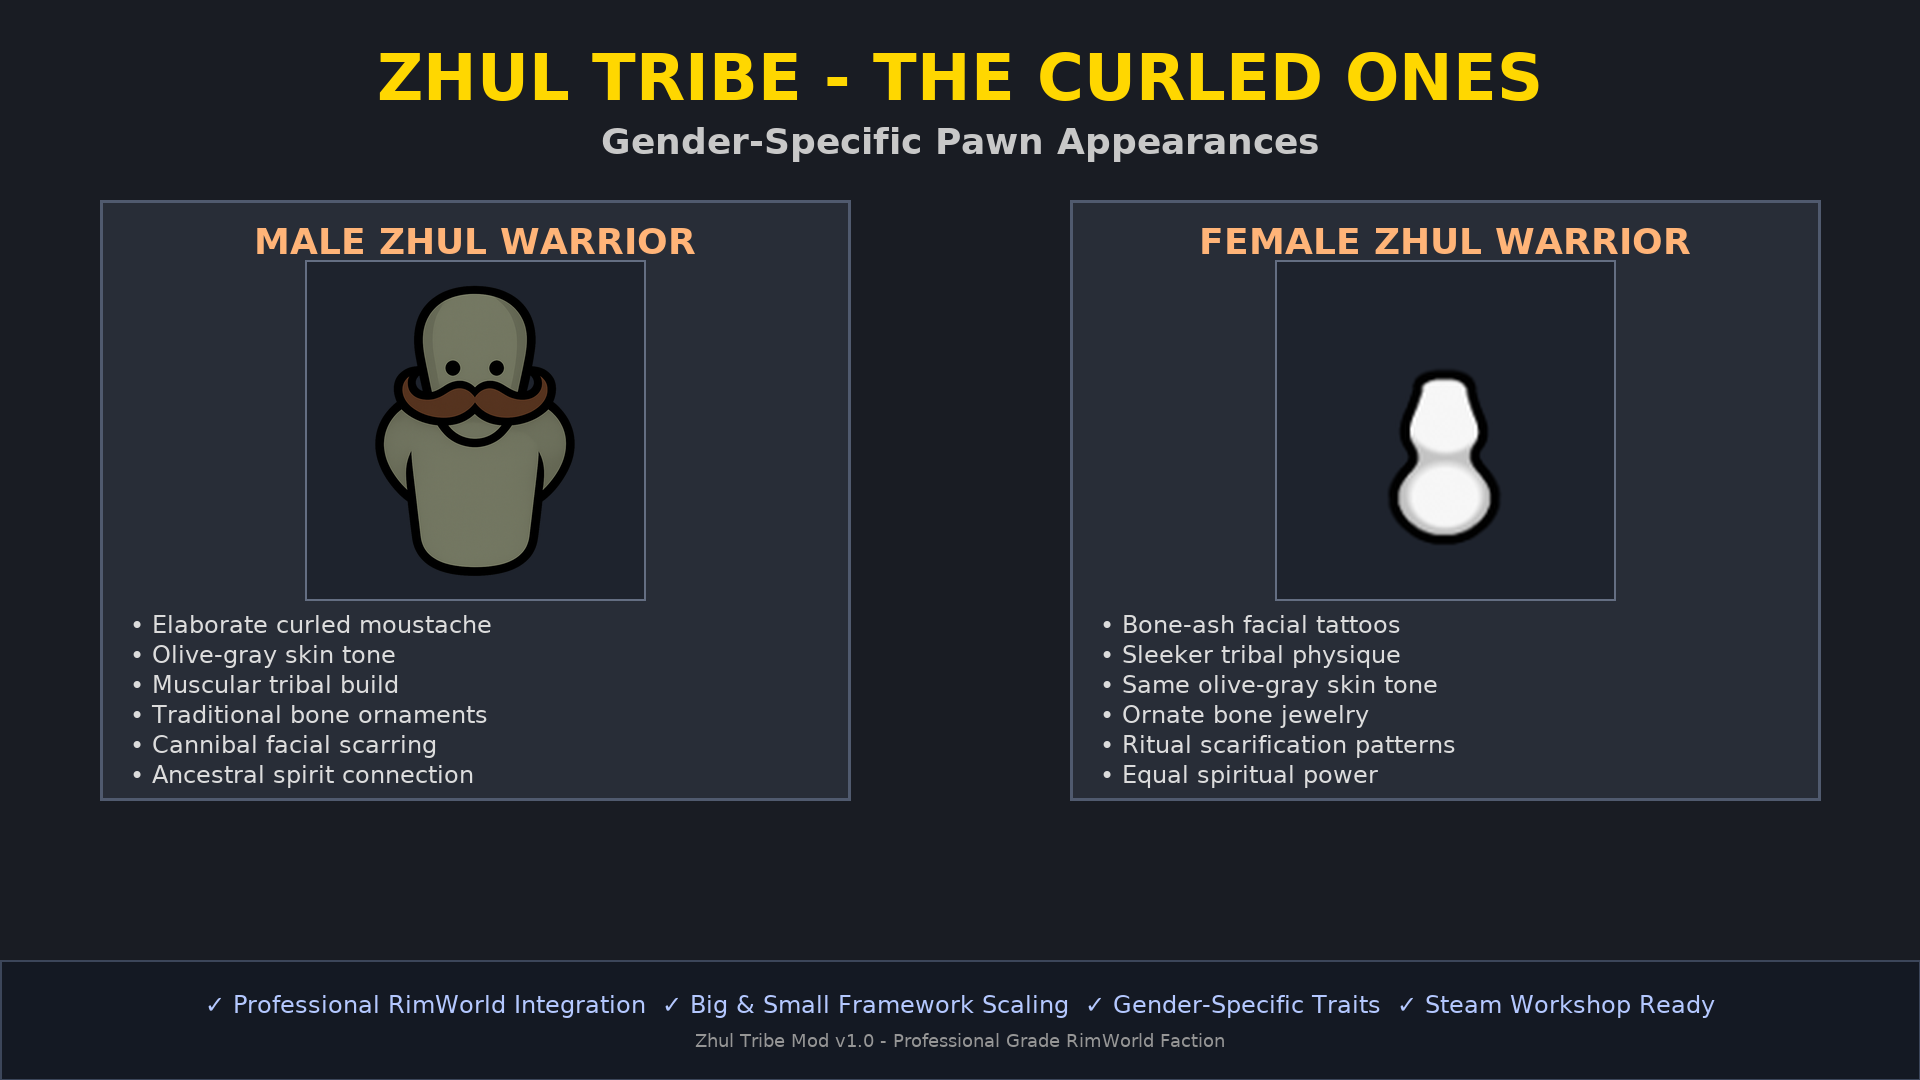
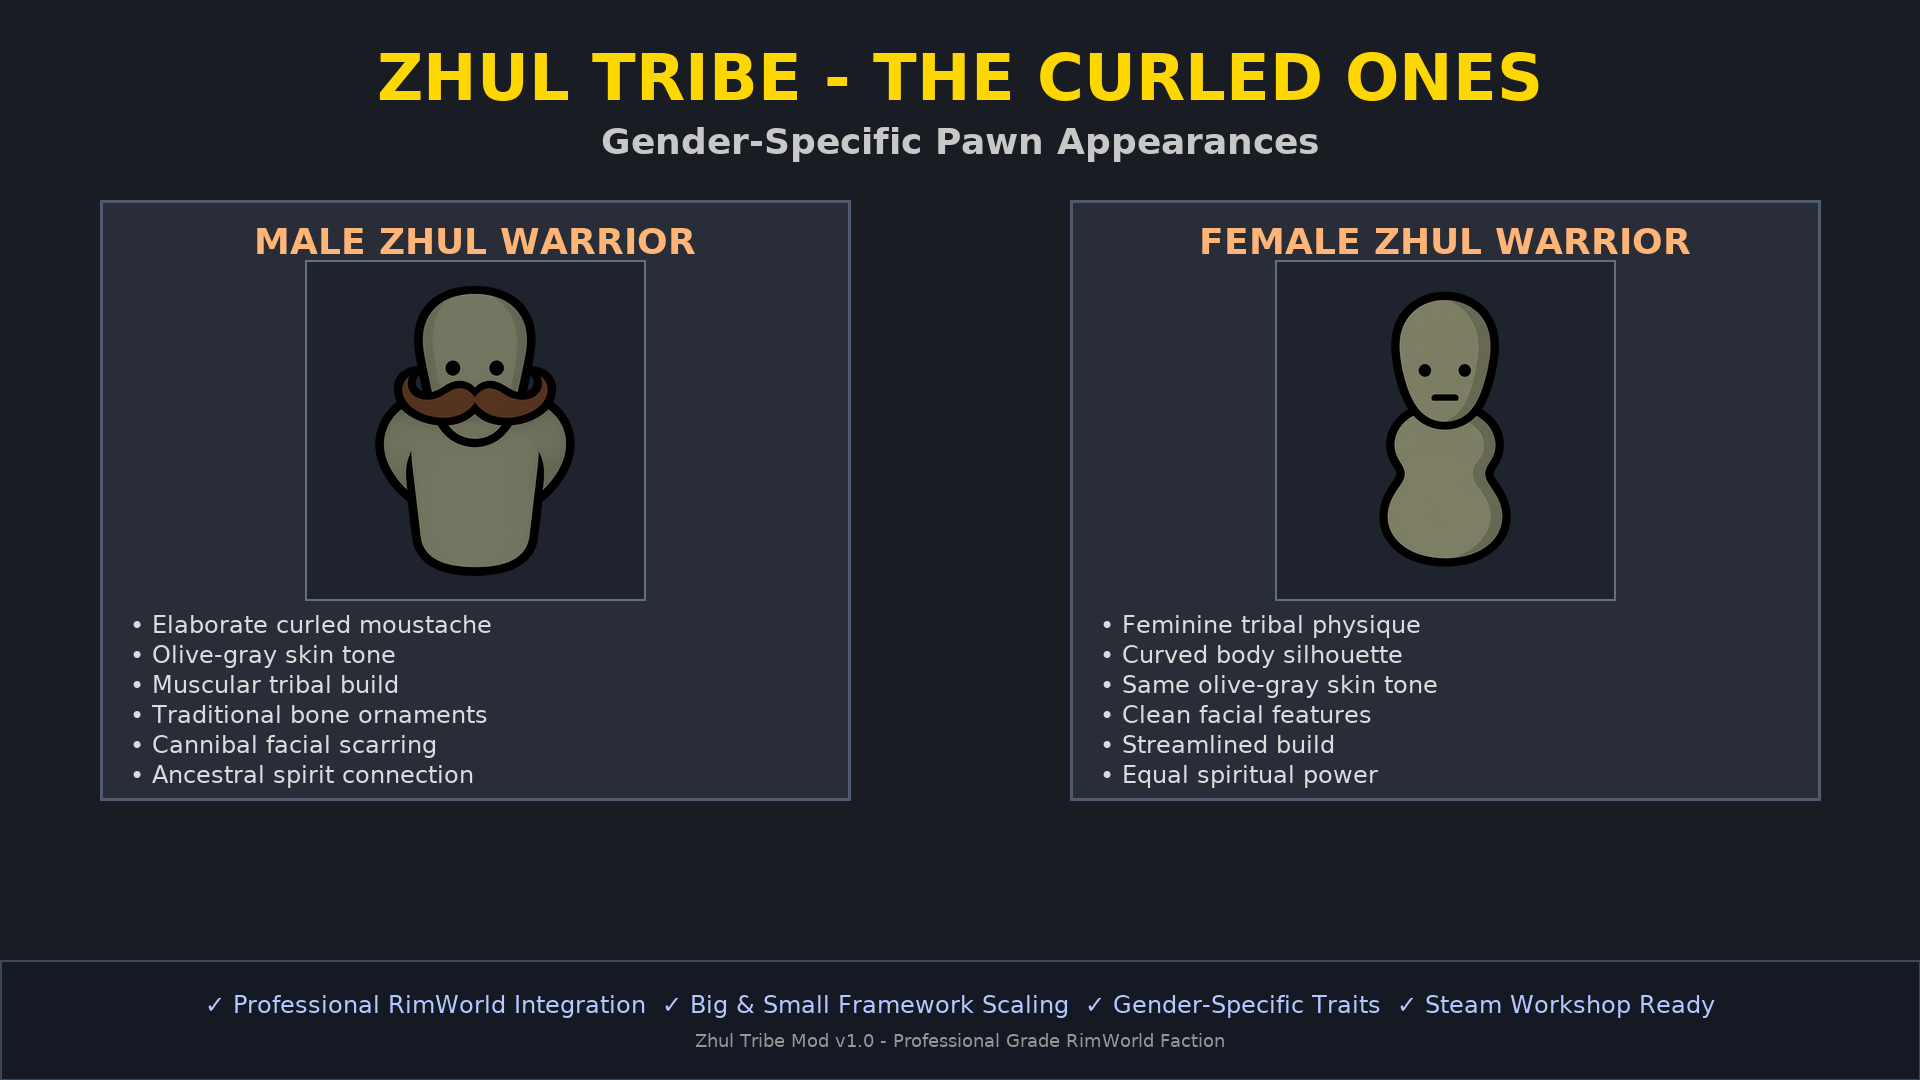
Refine the depiction of female characters in the Zhul tribe
Updates the female Zhul body sprite and modifies the preview generator script.

Replit-Commit-Author: Agent
Replit-Commit-Session-Id: 3a8bb6d8-334a-4228-9d48-21e721d691b0

Changed region(s): [[0.7188, 0.275, 0.8125, 0.5194], [0.5938, 0.6417, 0.75, 0.7028], [0.5938, 0.55, 0.75, 0.6111]]

diff --git a/generate_final_zhul_preview.py b/generate_final_zhul_preview.py
@@ -117,11 +117,11 @@ def create_final_zhul_preview():
     
     # Female characteristics  
     female_features = [
-        "• Bone-ash facial tattoos",
-        "• Sleeker tribal physique",
+        "• Feminine tribal physique",
+        "• Curved body silhouette",
         "• Same olive-gray skin tone",
-        "• Ornate bone jewelry",
-        "• Ritual scarification patterns", 
+        "• Clean facial features",
+        "• Streamlined build", 
         "• Equal spiritual power"
     ]
     
